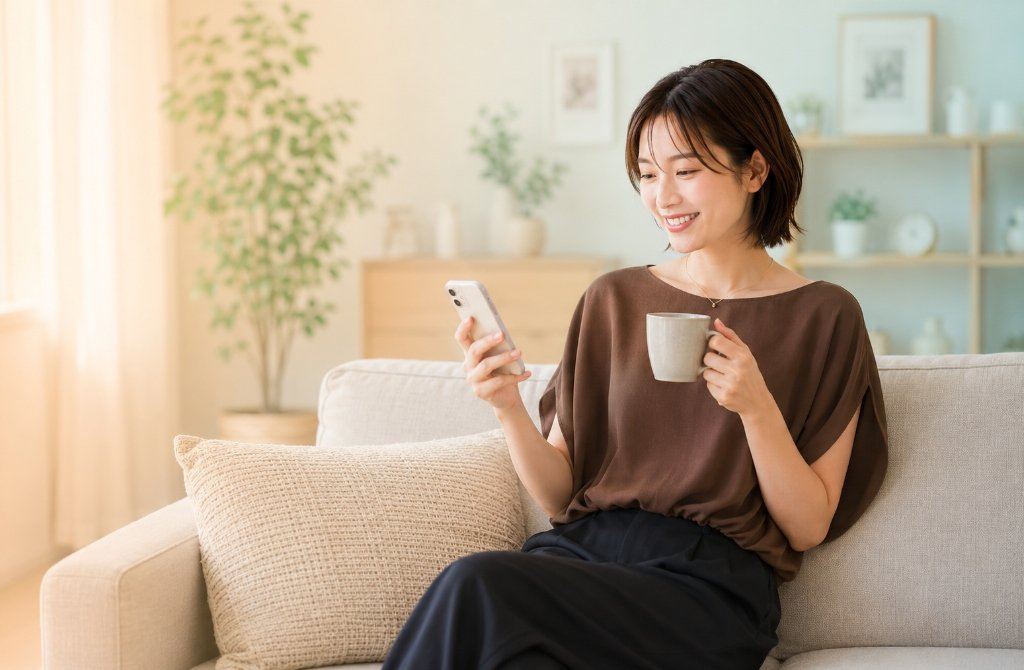
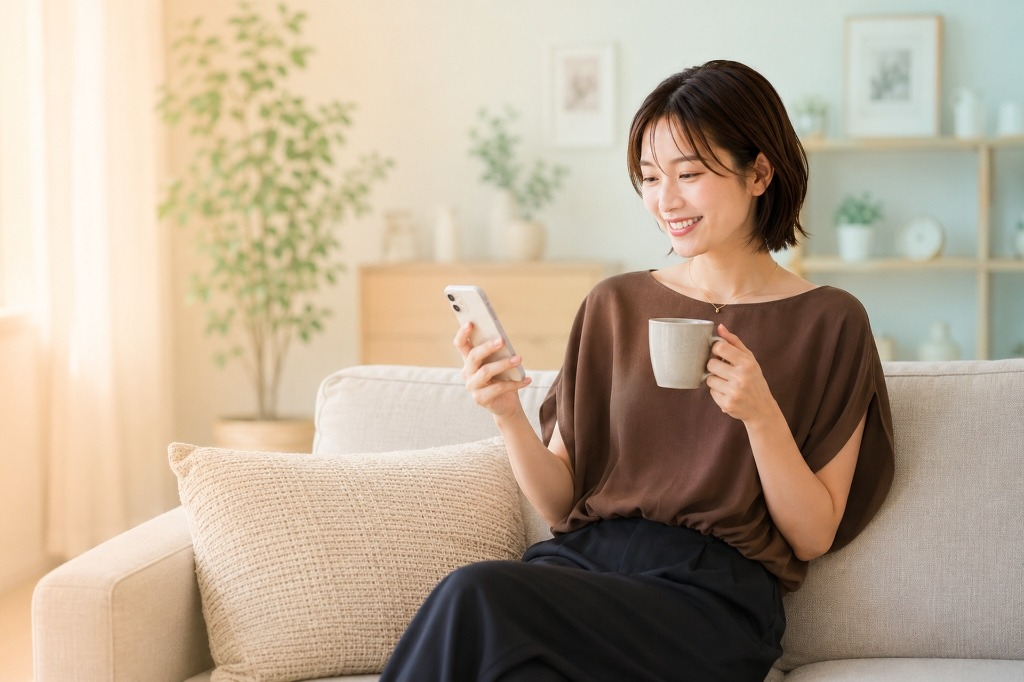
fix: ヒーロー画像を元の女性画像に復元（高画質化）

diff --git a/index.html b/index.html
@@ -129,7 +129,7 @@
     <div class="hero-bg">
       <picture>
         <source srcset="assets/hero.webp" type="image/webp">
-        <img src="assets/hero.jpg" alt="" width="1024" height="670" fetchpriority="high">
+        <img src="assets/hero.jpg" alt="" width="1024" height="682" fetchpriority="high">
       </picture>
     </div>
     <!-- Gradient overlay: left opaque → right transparent -->
